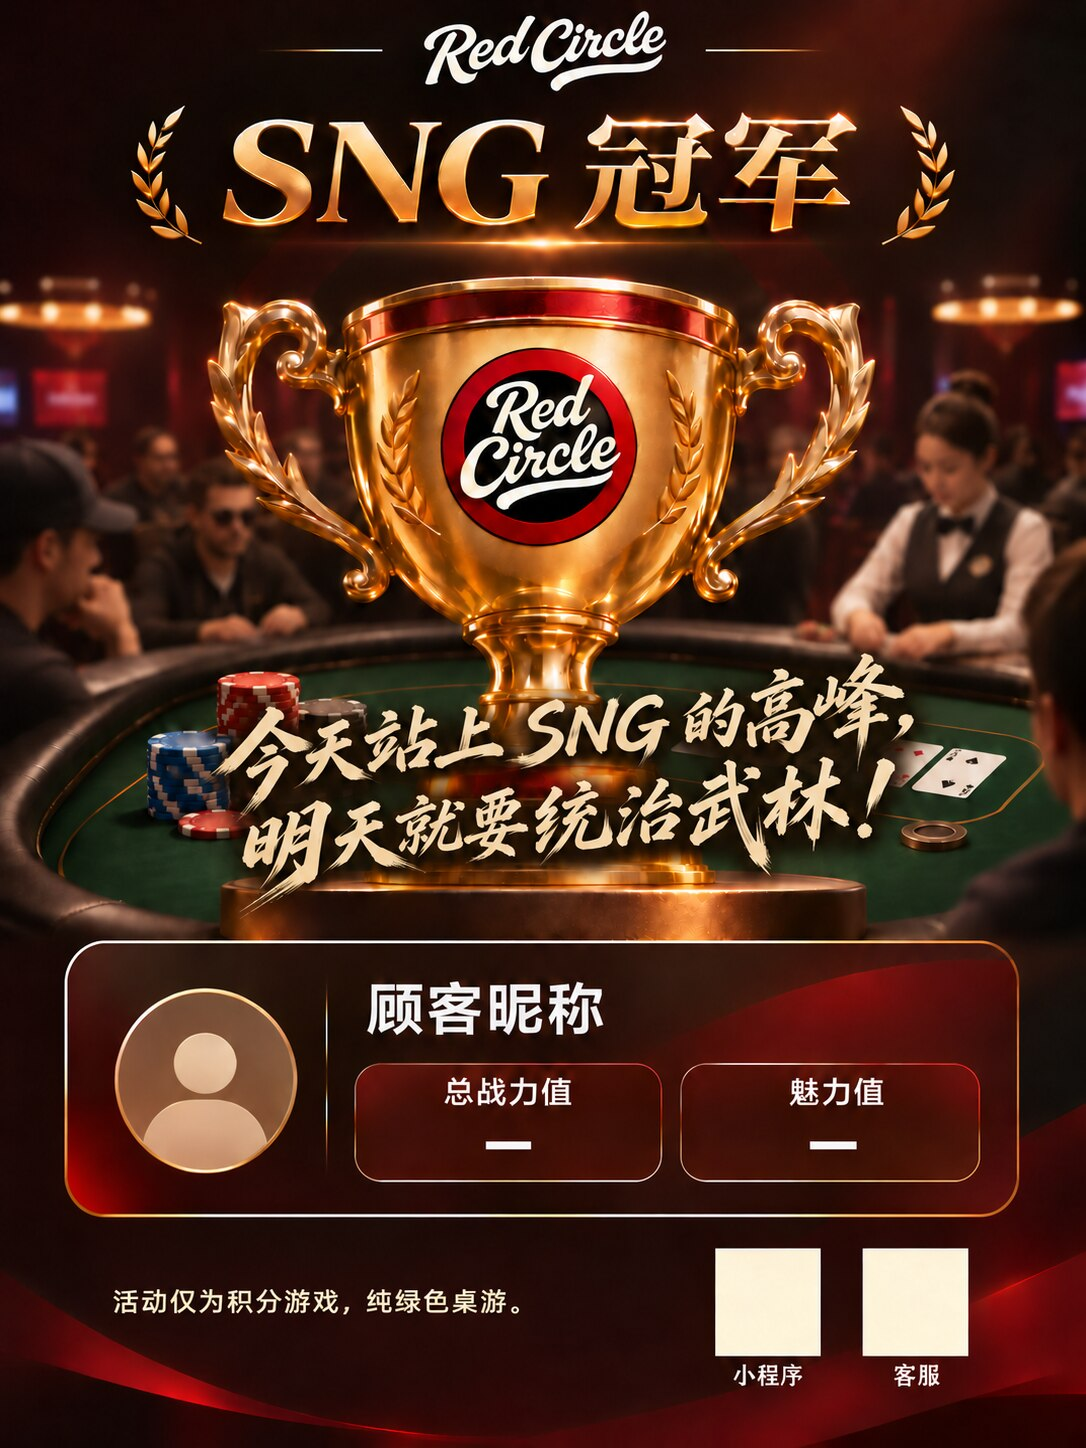
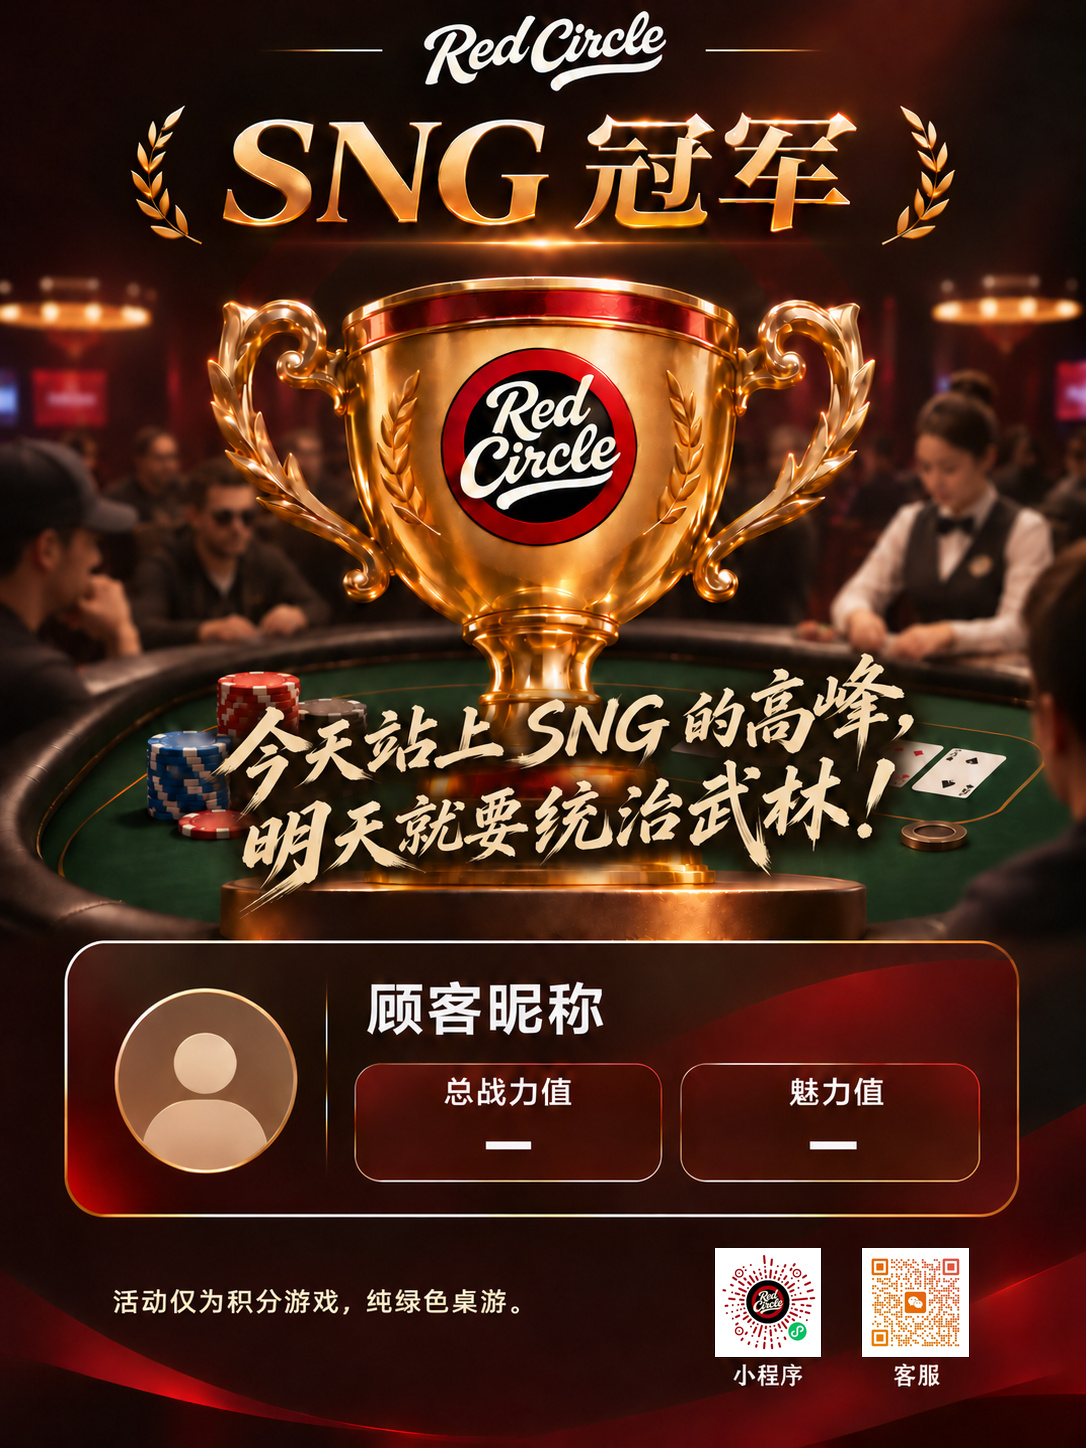
Sync QR codes into personalized SNG share posters

diff --git a/miniprogram/pages/moment/sng-poster.js b/miniprogram/pages/moment/sng-poster.js
@@ -25,43 +25,56 @@ async function loadMemberDetails(){
  };
 }
 
-function draw(ctx,item,details,width,height,done){
- const template=TEMPLATES[item.place]||TEMPLATES[1];
- ctx.save();
- ctx.scale(width/WIDTH,height/HEIGHT);
- ctx.drawImage('/assets/posters/'+template.file+'.jpg',0,0,WIDTH,HEIGHT);
+function loadImage(canvas,src){
+ return new Promise((resolve,reject)=>{
+  const image=canvas.createImage();
+  image.onload=()=>resolve(image);
+  image.onerror=reject;
+  image.src=src;
+ });
+}
 
- if(details.avatar){
+async function draw(canvas,item,details){
+ const template=TEMPLATES[item.place]||TEMPLATES[1];
+ const [background,avatar]=await Promise.all([
+  loadImage(canvas,'/assets/posters/'+template.file+'.jpg'),
+  details.avatar?loadImage(canvas,details.avatar.path).catch(()=>null):null
+ ]);
+ // Render at export size so small QR modules survive the preview layout.
+ canvas.width=WIDTH;
+ canvas.height=HEIGHT;
+ const ctx=canvas.getContext('2d');
+ ctx.drawImage(background,0,0,WIDTH,HEIGHT);
+
+ if(avatar){
   const [x,y,r]=template.avatar;
-  const {path,width:imageWidth,height:imageHeight}=details.avatar;
+  const {width:imageWidth,height:imageHeight}=details.avatar;
   const side=Math.min(imageWidth,imageHeight);
   ctx.save();
   ctx.beginPath();
   ctx.arc(x,y,r,0,Math.PI*2);
   ctx.clip();
-  ctx.drawImage(path,(imageWidth-side)/2,(imageHeight-side)/2,side,side,x-r,y-r,r*2,r*2);
+  ctx.drawImage(avatar,(imageWidth-side)/2,(imageHeight-side)/2,side,side,x-r,y-r,r*2,r*2);
   ctx.restore();
  }
 
  const [x,y,w,h]=template.name;
- ctx.setFillStyle(template.color);
+ ctx.fillStyle=template.color;
  ctx.fillRect(x,y,w,h);
- ctx.setFillStyle('#fff3df');
- ctx.setTextBaseline('middle');
- ctx.setTextAlign('left');
- ctx.setFontSize(51);
+ ctx.fillStyle='#fff3df';
+ ctx.textBaseline='middle';
+ ctx.textAlign='left';
+ ctx.font='51px sans-serif';
  ctx.fillText(String(item.nickname||'会员'),x+6,y+h/2,w-12);
- ctx.setTextAlign('center');
+ ctx.textAlign='center';
  template.scores.forEach(([cx,cy],index)=>{
   const score=index===0?details.skill:details.charisma;
-  ctx.setFillStyle(template.color);
+  ctx.fillStyle=template.color;
   ctx.fillRect(cx-81,cy-23,162,48);
-  ctx.setFillStyle('#fff3df');
-  ctx.setFontSize(43);
+  ctx.fillStyle='#fff3df';
+  ctx.font='43px sans-serif';
   ctx.fillText(Number.isSafeInteger(score)&&score>=0?String(score):'—',cx,cy,146);
  });
- ctx.restore();
- ctx.draw(false,done);
 }
 
 module.exports={draw,loadMemberDetails,WIDTH,HEIGHT};

diff --git a/miniprogram/pages/moment/index.js b/miniprogram/pages/moment/index.js
@@ -20,12 +20,21 @@ Page({
    const posterWidth=Math.min(320,wx.getSystemInfoSync().windowWidth-56);
    const posterHeight=Math.round(posterWidth*(isSng?4/3:3/2));
    this.setData({loading:false,ready:true,isSng,posterWidth,posterHeight},()=>{
-    if(isSng){
-     const ctx=wx.createCanvasContext('momentPoster',this);
-     sngPoster.draw(ctx,item,details,posterWidth,posterHeight,()=>this.setData({rendered:true}));
-    }else this.draw(item);
+    if(isSng)this.drawSng(item,details);
+    else this.draw(item);
    });
   }catch(e){this.setData({loading:false,error:'无法获取已认证荣誉，可能尚未审核或已撤销'});}
+ },
+ drawSng(item,details){
+  wx.createSelectorQuery().select('#sngMomentPoster').node(async result=>{
+   try{
+    const canvas=result?.node;
+    if(!canvas)throw Error('POSTER_CANVAS_UNAVAILABLE');
+    await sngPoster.draw(canvas,item,details);
+    this.sngCanvas=canvas;
+    this.setData({rendered:true});
+   }catch(e){this.setData({ready:false,error:'生成海报失败，请返回后重试'});}
+  }).exec();
  },
  draw(item){
   const ctx=wx.createCanvasContext('momentPoster',this);
@@ -59,12 +68,16 @@ Page({
  },
  exportPoster(onReady){
   if(!this.data.rendered)return;
-  const options={canvasId:'momentPoster',success:res=>onReady(res.tempFilePath),
+  const options={success:res=>onReady(res.tempFilePath),
    fail:()=>wx.showToast({title:'生成失败，请重试',icon:'none'})};
   if(this.data.isSng){
+   options.canvas=this.sngCanvas;
+   options.width=sngPoster.WIDTH;
+   options.height=sngPoster.HEIGHT;
    options.destWidth=sngPoster.WIDTH;
    options.destHeight=sngPoster.HEIGHT;
-  }
+   options.fileType='png';
+  }else options.canvasId='momentPoster';
   wx.canvasToTempFilePath(options,this);
  },
  sharePoster(){
